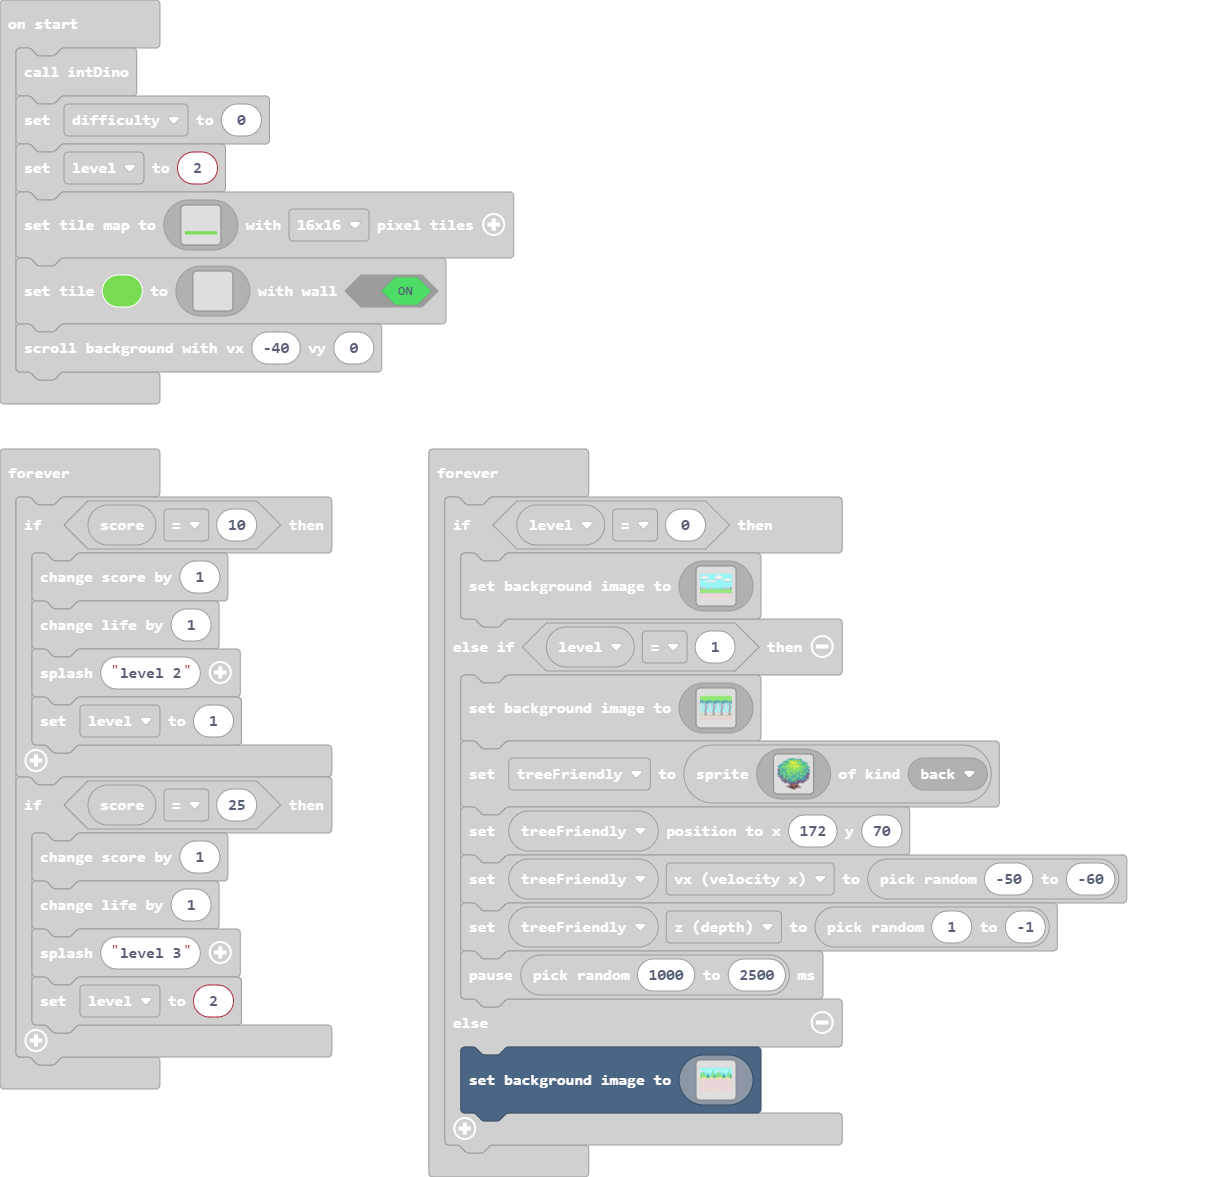
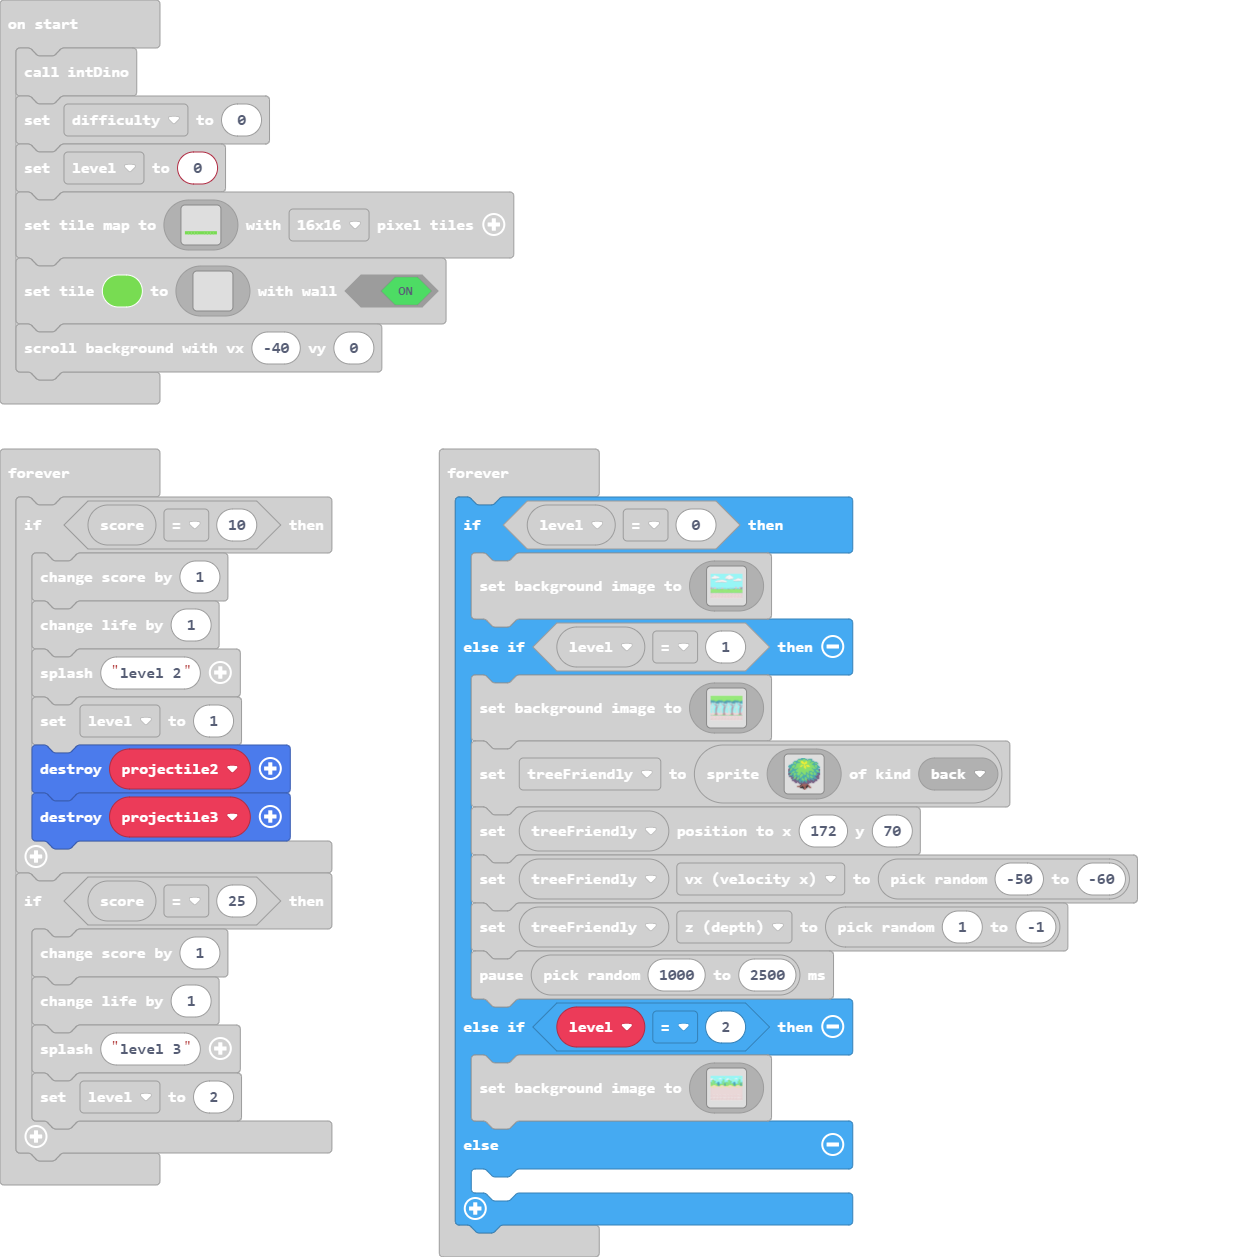
Update main.blocks, main.ts

Changed region(s): [[0.3396, 0.3364, 0.9261, 1.0], [0.0, 0.0306, 0.4322, 0.9482]]

diff --git a/main.ts b/main.ts
@@ -224,15 +224,15 @@ let tree: Sprite = null
 let rock2: Sprite = null
 let rock: Sprite = null
 let projectile: Sprite = null
-let projectile3: Sprite = null
-let projectile2: Sprite = null
 let enemyType = 0
 let treeFriendly: Sprite = null
+let projectile3: Sprite = null
+let projectile2: Sprite = null
 let doubleJump = 0
 let mySprite: Sprite = null
 intDino()
 let difficulty = 0
-let level = 2
+let level = 0
 scene.setTileMap(img`
     . . . . . . . . . . 
     . . . . . . . . . . 
@@ -268,6 +268,8 @@ forever(function () {
         info.changeLifeBy(1)
         game.splash("level 2")
         level = 1
+        projectile2.destroy()
+        projectile3.destroy()
     }
     if (info.score() == 25) {
         info.changeScoreBy(1)
@@ -593,7 +595,7 @@ forever(function () {
         treeFriendly.vx = randint(-50, -60)
         treeFriendly.z = randint(1, -1)
         pause(randint(1000, 2500))
-    } else {
+    } else if (level == 2) {
         scene.setBackgroundImage(img`
             9999999999999999999999999999999999999999999999999999999999999999999999999999999999999999999999999999999999999999999999999999999999999999999999999999999999999999
             9999999999999999999999999999999999999999999999999999999999999999999999999999999999999999999999999999999999999999999999999999999999999999999999999999999999999999
@@ -716,6 +718,8 @@ forever(function () {
             dddddddddddddddddddddddddddddddddddddddddddddddddddddddddddddddddddddddddddddddddddddddddddddddddddddddddddddddddddddddddddddddddddddddddddddddddddddddddddddddd
[1 lines of base64/hex data omitted]
             `)
+    } else {
+    	
     }
 })
 forever(function () {
